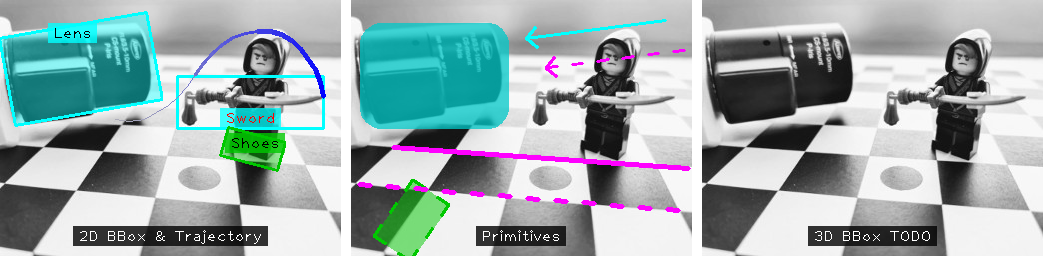
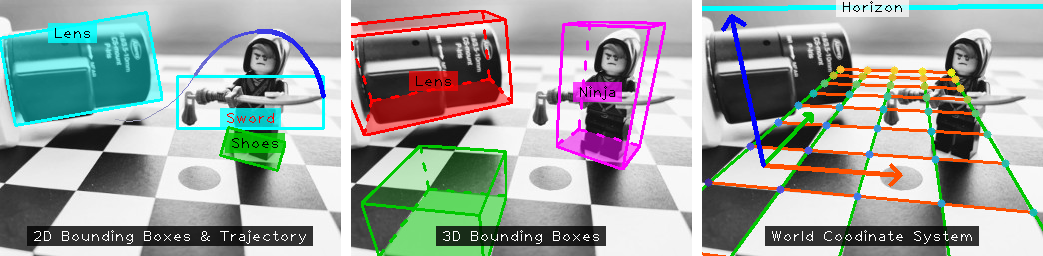
add 3d bbox visualization example

diff --git a/examples/python3/imvis_demo.py b/examples/python3/imvis_demo.py
@@ -234,57 +234,29 @@ def demo_bbox2d():
     return vis_img
 
 
-def demo_bbox3d():
-    # Bounding boxes
+def calibrated_example():
     img = imutils.imread('../data/ninja.jpg', mode='RGB')  # Load grayscale as 3-channel image
     img_height, img_width = img.shape[:2]
-    #TODO check Line-Based Extrinsic Calibration of Range and Image Sensors ICRA 2013
-    img_points = np.array([
-        (4.4, 183.4),
-        (76.6, 190.6),
-        (155.5, 197.5),
-        (240.2, 204.8),
-        (328.4, 210.6),
-        (44, 147.1),
-        (103.2, 151.1),
-        (167.7, 156.2),
-        (235, 160),
-        (305.9, 164.7),
-        (122, 125),
-        (175.9, 128.1),
-        (289, 134.4),
-        (327.1, 115.5),
-        (33.4, 253.4)], dtype=np.float32)
-
+    # Get camera extrinsics via PnP
+    img_points = np.array([(4.4, 183.4), (76.6, 190.6), (155.5, 197.5), (240.2, 204.8),
+        (328.4, 210.6), (44, 147.1), (103.2, 151.1), (167.7, 156.2), (235, 160), (305.9, 164.7),
+        (122, 125), (175.9, 128.1), (289, 134.4), (327.1, 115.5), (33.4, 253.4)], dtype=np.float32)
+    # Corresponding grid points
     grid_points = [
-        (0, 0),
-        (1, 0),
-        (2, 0),
-        (3, 0),
-        (4, 0),
-        (0, 1),
-        (1, 1),
-        (2, 1),
-        (3, 1),
-        (4, 1),
-        (1, 2),
-        (2, 2),
-        (4, 2),
-        (5, 3),
-        (1, -1)]
-    N = len(grid_points)
+        (0, 0), (1, 0), (2, 0), (3, 0), (4, 0), (0, 1), (1, 1), (2, 1),
+        (3, 1), (4, 1), (1, 2), (2, 2), (4, 2), (5, 3), (1, -1)]
+    # Convert to mm
     grid_width_mm = 24.0
     obj_points = np.array([[s[0]*grid_width_mm, s[1]*grid_width_mm, 0.0] for s in grid_points], dtype=np.float32)
+    # Compute focal length in pixels
     focal_length_mm = 5.6
-    sensor_width_mm = 7.3
-    sensor_height_mm = 5.47
+    sensor_width_mm = 7.3 # sensor_height_mm = 5.47, sensor resolution 7296x5472 (40 MP)
     fl = focal_length_mm / sensor_width_mm * img_width
+    # Good enough guess for principal point and distortion :-p
     cx = img_width / 2.0
     cy = img_height / 2.0
-    # Sensor resolution 7296x5472 (40 MP)
     dist_coeff = np.zeros(4)
-    K = np.float64([[fl, 0, cx], [0, fl, cy], [0, 0, 1]])
-
+    K = np.float64([[fl, 0, cx], [0, fl, cy], [0, 0, 1]]).reshape((3, 3, 1))
     # print(K)
     # print(obj_points, obj_points.shape, np.transpose(obj_points))
     # print(img_points.shape)
@@ -293,23 +265,89 @@ def demo_bbox3d():
     # cameraMatrix = np.eye(3)
     # distCoeffs = np.zeros((5,1))
     # ret, rvec, tvec = cv2.solvePnP(objectPoints, imagePoints, cameraMatrix, distCoeffs)
-    ret, rvec, tvec = cv2.solvePnP(obj_points.reshape((N, 3, 1)), img_points.reshape((N, 2, 1)), K, dist_coeff) #, flags=cv2.SOLVEPNP_UPNP)
-    print(ret, rvec, tvec)
-    verts = cv2.projectPoints(obj_points, rvec, tvec, K, dist_coeff)[0].reshape(-1, 2)
-    print(verts)
-    vis_img = imvis.draw_points(img, np.transpose(img_points), color=(255, 0, 0))
-    vis_img = imvis.draw_points(vis_img, np.transpose(verts), color=(0, 255, 255))
+    # Solve for the extrinsics
+    ret, rvec, t = cv2.solvePnP(obj_points, img_points, K, dist_coeff)
+    if not ret:
+        raise RuntimeError('Could not recover camera pose!')
+    # print(ret, rvec, t)
+    # verts = cv2.projectPoints(obj_points, rvec, t, K, dist_coeff)[0].reshape(-1, 2)
+    # print(verts)
+    R, _ = cv2.Rodrigues(rvec)
+    # vis_img = imvis.draw_points(img, np.transpose(img_points), color=(255, 0, 0))
+    # vis_img = imvis.draw_points(vis_img, np.transpose(verts), color=(0, 255, 255))
+    return img, K, R, t
+
+
+def demo_bbox3d():
+    img, K, R, t = calibrated_example()
+
+    def _mkbb(footpoint, size, angles, color, label):
+        xh = size[0] / 2.0
+        yh = size[1] / 2.0
+        zh = size[2] / 2.0
+        # Centered 3d box
+        box = [
+            (-xh, -yh, +zh), (+xh, -yh, +zh), (+xh, +yh, +zh), (-xh, +yh, +zh), # First, the 4 top corners
+            (-xh, -yh, -zh), (+xh, -yh, -zh), (+xh, +yh, -zh), (-xh, +yh, -zh), # Then, the 4 bottom corners
+        ]
+        # A 3d bounding box is a box with RGB color and an optional TODO??? label
+        box3d = (box, color, label)  # Must be a tuple!!!
+        return shift_bbox3d(rotate_bbox3d(box3d, angles[0], angles[1], angles[2]),
+            footpoint[0], footpoint[1], footpoint[2] + zh)
+
+    bboxes = [
+        _mkbb((78, 34, 0), (26, 20, 45), (0, 0, -30), (255, 0, 255), 'Ninja'),  # The ninja
+        _mkbb((36, -12, 0), (24, 24, 15), (0, 0, 0), (0, 200, 0), None),  # Small box in front
+        _mkbb((6, 48, 10), (60, 35, 35), (6, -2, 30), None, 'Lens')
+    ]
+    vis_img = imvis.draw_bboxes3d(img, bboxes, K, R, t,
+        scale_image_points=1.0, default_box_color=(255, 0, 0),
+        line_width=2, dash_length=10,
+        fill_opacity_top=0.2, fill_opacity_bottom=0.5,
+        font_color=(0, 0, 0), text_anchor='center',
+        font_scale=1.0, font_thickness=1,
+        text_box_padding=5, text_box_opacity=0.7,
+        non_overlapping=True)
     return vis_img
+
+
+def demo_vis_extrinsics():
+    img, K, R, t = calibrated_example()
+    # Draw the horizon (or print a warning if it lies outside the fov)
+    vis_img = imvis.draw_horizon(img, K, R, t,
+        color=(0, 255, 255),
+        scale_image_points=1.0,
+        text_opacity=0.7,
+        line_width=3,
+        dash_length=-1,
+        warn_if_not_visible=True)
+    # Overlay the groundplane grid
+    vis_img = imvis.draw_groundplane_grid(vis_img, K, R, t,
+        grid_spacing=24,
+        grid_limits=(0, -24, 96, 196),
+        grid_origin=(0, 0),
+        scale_image_points=1.0,
+        point_radius=4,
+        point_thickness=-1,
+        line_thickness=2,
+        opacity=0.9,
+        output_rgb=True)
+    # Overlay the axis (actually not starting at 0,0,0 so we can see it fully inside the image...)
+    vis_img = imvis.draw_xyz_axes(vis_img, K, R, t,
+        origin=(12, 12, 0),
+        scale_axes=48,
+        scale_image_points=1.0,
+        line_width=4,
+        dash_length=-1,
+        image_is_rgb=True)
+    return vis_img
+
 
 
 if __name__ == "__main__":
     demo_pseudocolor()
 
     demo_overlay()
-
-    # TODO maybe add a draw-primitives demo?
-    #collage = imvis.draw_circles(collage, [(30, 20), (100, 200)], [10, 27], thickness=-1, line_type=16)
-
 
     # ############################################################################
     # ## Stereoscopic images
@@ -332,15 +370,15 @@ if __name__ == "__main__":
     names = list()
     
     images.append(demo_bbox2d())
-    names.append('2D BBox & Trajectory')
-
-    
-
-    images.append(demo_primitives())
-    names.append('Primitives')
+    names.append('2D Bounding Boxes & Trajectory')
 
     images.append(demo_bbox3d())
-    names.append('3D BBox TODO')
+    names.append('3D Bounding Boxes')
+
+    images.append(demo_vis_extrinsics())
+    names.append('World Coodinate System')
+    # images.append(demo_primitives()) # TODO make separate demo
+    # names.append('Primitives')
 
     # Add alpha channel to render the README visualization nicely for web display
     images[0] = np.dstack((images[0], 255*np.ones(images[0].shape[:2], dtype=np.uint8)))
@@ -359,7 +397,7 @@ if __name__ == "__main__":
 
     imvis.imshow(collage, title='Basic Drawing', wait_ms=-1)
     imutils.imsave('example-imvis.png', collage)
-    raise RuntimeError()
+    raise RuntimeError() #TODO finish demo
     
     
     ############################################################################

diff --git a/src/python3/bindings/imvis_cpp.cpp b/src/python3/bindings/imvis_cpp.cpp
@@ -316,22 +316,23 @@ cv::Mat DrawXYZAxes(const cv::Mat &image, const cv::Mat &K, const cv::Mat &R, co
 
 
 cv::Mat DrawHorizon(const cv::Mat &image, const cv::Mat &K, const cv::Mat &R, const cv::Mat &t,
-                    const cv::Scalar &color, double scale_image_points, int line_width, int dash_length,
+                    const cv::Scalar &color, double scale_image_points, double text_opacity, int line_width, int dash_length,
                     bool warn_if_not_visible)
 {
   cv::Mat img = image.clone();
-  vcp::imvis::drawing::DrawHorizon(img, K, R, t, color, scale_image_points, line_width, dash_length, warn_if_not_visible);
+  vcp::imvis::drawing::DrawHorizon(img, K, R, t, color, scale_image_points, line_width, dash_length, warn_if_not_visible, text_opacity);
   return img;
 }
 
 
 cv::Mat DrawGroundplaneGrid(const cv::Mat &image, const cv::Mat &K, const cv::Mat &R, const cv::Mat &t,
                             double grid_spacing, const cv::Rect2d &grid_limits, const cv::Vec2d &grid_origin,
-                            double scale_image_points, int point_radius, int line_width, double opacity)
+                            double scale_image_points, int point_radius, int point_thickness, int line_thickness, double opacity,
+                            bool output_rgb)
 {
   cv::Mat img = image.clone();
   vcp::imvis::drawing::DrawGroundplaneGrid(img, K, R, t, grid_spacing, grid_limits, grid_origin,
-                                                   scale_image_points, point_radius, line_width, opacity, false);
+                                                   scale_image_points, point_radius, point_thickness, line_thickness, opacity, output_rgb);
   return img;
 }
 
@@ -865,6 +866,8 @@ PYBIND11_MODULE(imvis_cpp, m)
         ":param scale_image_points: If the image is resized (i.e. not the original\n"
         "    size which corresponds to the given intrinsics), you need to\n"
         "    provide the scaling factor as scale_image_points.\n"
+        ":param text_opacity: If > 0, a textbox will be drawn at the center of\n"
+        "    the visible horizon line.\n"
         ":param line_width:   Line width in pixels.\n"
         ":param dash_length:  Horizon will be dashed if > 0.\n"
         ":param warn_if_not_visible: If True and the horizon is outside the\n"
@@ -873,6 +876,7 @@ PYBIND11_MODULE(imvis_cpp, m)
         py::arg("image"), py::arg("K"), py::arg("R"), py::arg("t"),
         py::arg("color") = cv::Scalar(255,0,255),
         py::arg("scale_image_points") = 1.0,
+        py::arg("text_opacity") = 0.8,
         py::arg("line_width") = 1,
         py::arg("dash_length") = -1,
         py::arg("warn_if_not_visible") = true);
@@ -895,8 +899,10 @@ PYBIND11_MODULE(imvis_cpp, m)
         "    size which corresponds to the given projection matrix), you need to\n"
         "    provide the scaling factor as scale_image_points.\n"
         ":param point_radius: Radius of each grid point in pixels.\n"
-        ":param line_width: Line width in pixels, -1 for filled dots/circles.\n"
+        ":param point_thickness: Thickness of contours in pixels, -1 for filled dots/circles.\n"
+        ":param line_thickness: Thickness of grid lines in pixels, integer > 0\n"
         ":param opacity: Opacity in [0,1].\n"
+        ":param output_rgb: Colorize axes as RGB (unless you use OpenCV and prefer BGR)."
         ":return: Visualization as np.array.",
         py::arg("image"), py::arg("K"), py::arg("R"), py::arg("t"),
         py::arg("grid_spacing") = 500.0,
@@ -904,8 +910,10 @@ PYBIND11_MODULE(imvis_cpp, m)
         py::arg("grid_origin") = cv::Vec2d(0.0, 0.0),
         py::arg("scale_image_points") = 1.0,
         py::arg("point_radius") = 5,
-        py::arg("line_width") = 1,
-        py::arg("opacity") = 1.0);
+        py::arg("point_thickness") = 1,
+        py::arg("line_thickness") = 1,
+        py::arg("opacity") = 1.0,
+        py::arg("output_rgb") = true);
 
 
   m.def("draw_error_ellipse_90", &vpi::DrawErrorEllipse90,

diff --git a/src/cpp/vcp_imvis/drawing.cpp b/src/cpp/vcp_imvis/drawing.cpp
@@ -1317,7 +1317,7 @@ void DrawXYZAxes(cv::Mat &image, const cv::Mat &K, const cv::Mat &R, const cv::M
 }
 
 
-void DrawHorizon(cv::Mat &image, const cv::Mat &K, const cv::Mat &R, const cv::Mat &t, const cv::Scalar &color, double scale_image_points, int line_width, int dash_length, bool warn_if_not_visible)
+void DrawHorizon(cv::Mat &image, const cv::Mat &K, const cv::Mat &R, const cv::Mat &t, const cv::Scalar &color, double scale_image_points, int line_width, int dash_length, bool warn_if_not_visible, double text_opacity)
 {
   VCP_LOG_DEBUG("DrawHorizon()");
   const double original_width = image.cols / scale_image_points;
@@ -1331,9 +1331,13 @@ void DrawHorizon(cv::Mat &image, const cv::Mat &K, const cv::Mat &R, const cv::M
     DrawInfiniteLine(image, vcp::convert::ToPoint(from), vcp::convert::ToPoint(to), color, line_width, dash_length);
 
     // Draw text
-    const cv::Vec2d line_center = 0.5 * (from + to); //from + 0.5 * (to - from);
-    DrawTextBox(image, "Horizon", vcp::convert::ToPoint(line_center), textanchor::HCENTER | textanchor::VCENTER, 5, 0.5, cv::Scalar(0,0,0), cv::Scalar(255,255,255),
-               cv::FONT_HERSHEY_PLAIN, 1.0, 1);
+    if (text_opacity > 0.0)
+    {
+      const cv::Vec2d line_center = 0.5 * (from + to); //from + 0.5 * (to - from);
+      DrawTextBox(image, "Horizon", vcp::convert::ToPoint(line_center),
+                  textanchor::HCENTER | textanchor::VCENTER, 5, text_opacity, cv::Scalar(0, 0, 0), cv::Scalar(255,255,255),
+                 cv::FONT_HERSHEY_PLAIN, 1.0, 1);
+    }
   }
   else
   {
@@ -1345,7 +1349,7 @@ void DrawHorizon(cv::Mat &image, const cv::Mat &K, const cv::Mat &R, const cv::M
 
 void DrawGroundplaneGrid(cv::Mat &image, const cv::Mat &K, const cv::Mat &R, const cv::Mat &t, double grid_spacing, const cv::Rect2d &grid_limits,
                          const cv::Vec2d &grid_origin, double scale_image_points,
-                         int point_radius, int line_width, double opacity, bool flip_color_channels)
+                         int point_radius, int point_thickness, int line_thickness, double opacity, bool flip_color_channels)
 {
   VCP_LOG_DEBUG("DrawGroundplaneGrid()");
   // If our FOV is smaller than the given grid extent, we don't want to project all the points - so first check what's actually visible, then continue to draw.
@@ -1479,7 +1483,7 @@ void DrawGroundplaneGrid(cv::Mat &image, const cv::Mat &K, const cv::Mat &R, con
       const cv::Vec3d to3 = clipped.To();
       const cv::Vec2d axis_from = utils::TransformVecWithScale(H_gp2img, cv::Vec2d(from3[0], from3[1]), scale_image_points);
       const cv::Vec2d axis_to = utils::TransformVecWithScale(H_gp2img, cv::Vec2d(to3[0], to3[1]), scale_image_points);
-      cv::line(image, vcp::convert::ToPoint(axis_from), vcp::convert::ToPoint(axis_to), color_y_axis, 1);
+      cv::line(image, vcp::convert::ToPoint(axis_from), vcp::convert::ToPoint(axis_to), color_y_axis, line_thickness);
     }
     x += grid_spacing;
   }
@@ -1495,7 +1499,7 @@ void DrawGroundplaneGrid(cv::Mat &image, const cv::Mat &K, const cv::Mat &R, con
       const cv::Vec3d to3 = clipped.To();
       const cv::Vec2d axis_from = utils::TransformVecWithScale(H_gp2img, cv::Vec2d(from3[0], from3[1]), scale_image_points);
       const cv::Vec2d axis_to = utils::TransformVecWithScale(H_gp2img, cv::Vec2d(to3[0], to3[1]), scale_image_points);
-      cv::line(image, vcp::convert::ToPoint(axis_from), vcp::convert::ToPoint(axis_to), color_x_axis, 1);
+      cv::line(image, vcp::convert::ToPoint(axis_from), vcp::convert::ToPoint(axis_to), color_x_axis, line_thickness);
     }
     y += grid_spacing;
   }
@@ -1522,7 +1526,7 @@ void DrawGroundplaneGrid(cv::Mat &image, const cv::Mat &K, const cv::Mat &R, con
     }
 
     // Finally: draw!
-    DrawPoints(image, grid_points, colors, point_radius, line_width, opacity);
+    DrawPoints(image, grid_points, colors, point_radius, point_thickness, opacity);
   }
 }
 

diff --git a/src/cpp/vcp_imvis/drawing.h b/src/cpp/vcp_imvis/drawing.h
@@ -238,7 +238,8 @@ void DrawXYZAxes(cv::Mat &image, const cv::Mat &K, const cv::Mat &R, const cv::M
  * If the image is scaled (i.e. not the original size which corresponds to the given K), adjust the scale_image_points parameter!
  */
 void DrawHorizon(cv::Mat &image, const cv::Mat &K, const cv::Mat &R, const cv::Mat &t, const cv::Scalar &color,
-                 double scale_image_points=1.0, int line_width=2, int dash_length=-1, bool warn_if_not_visible=false);
+                 double scale_image_points=1.0, int line_width=2, int dash_length=-1, bool warn_if_not_visible=false,
+                 double text_opacity=0.7);
 
 
 /** @brief Draws a ground plane grid (allows you to check/visualize your camera2world calibrations).
@@ -252,7 +253,7 @@ void DrawHorizon(cv::Mat &image, const cv::Mat &K, const cv::Mat &R, const cv::M
 void DrawGroundplaneGrid(cv::Mat &image, const cv::Mat &K, const cv::Mat &R, const cv::Mat &t, double grid_spacing=1000.0,
                          const cv::Rect2d &grid_limits=cv::Rect2d(-10000.0, -10000.0, 20000.0, 20000.0),
                          const cv::Vec2d &grid_origin=cv::Vec2d(0.0, 0.0), double scale_image_points=1.0,
-                         int point_radius=5, int line_width=-1, double opacity=1.0, bool flip_color_channels=false);
+                         int point_radius=5, int point_thickness=-1, int line_thickness=1, double opacity=1.0, bool flip_color_channels=false);
 
 
 /** @brief Represents a 3D bounding box (8 vertices, 4 on top, 4 on the bottom plane). */
